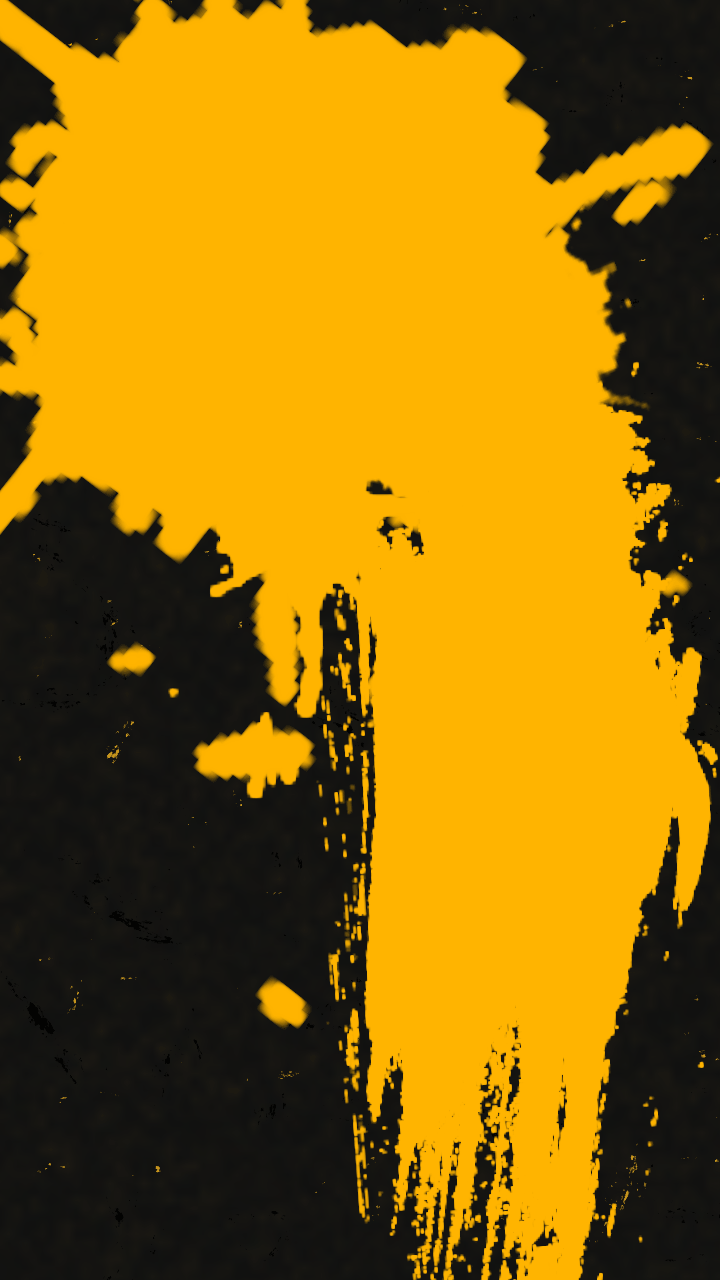
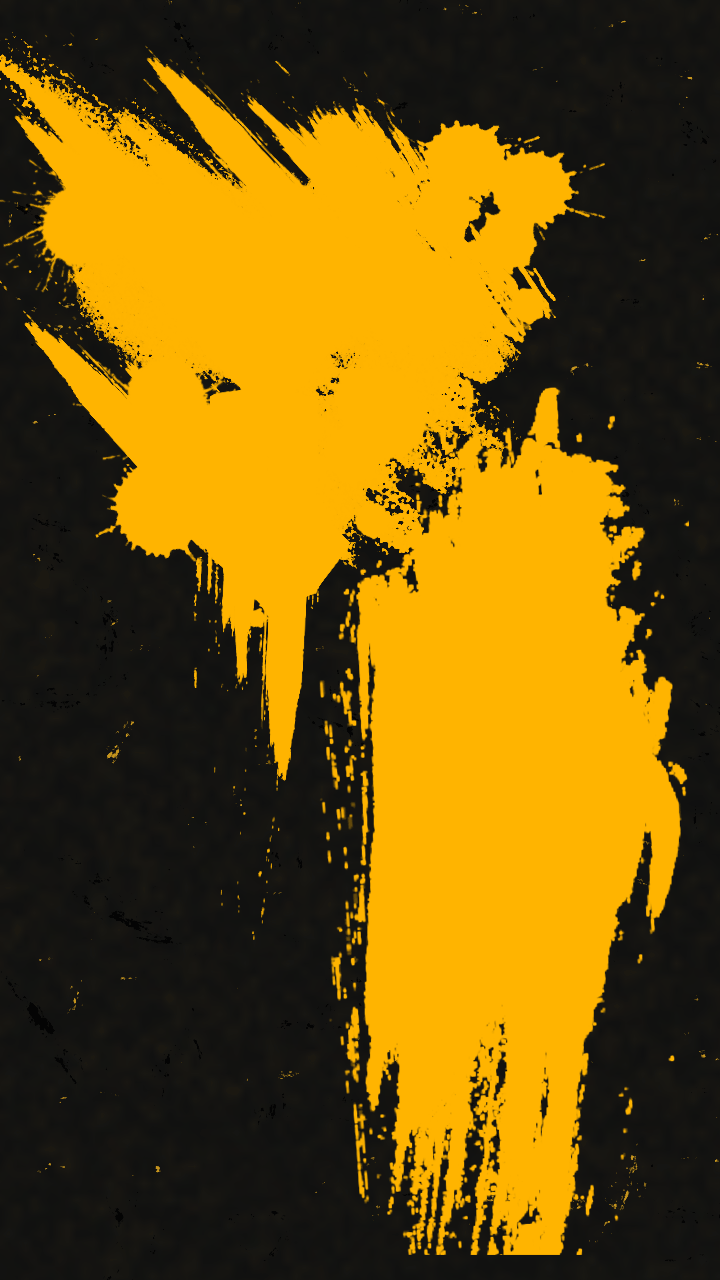
modify

diff --git a/templates/activity.html b/templates/activity.html
@@ -40,7 +40,34 @@
                 <img class="person2" src="static/img/section/section2/slide2/person2.png"  style="display: none"/>
                 <img class="name" src="static/img/section/section2/slide2/name.png" style="display: none" />
             </div>
-
+        </div>
+        <div class="slide" id="slide3">
+            <div class="box-wrapper">
+                <img class="person1" src="static/img/section/section2/slide3/person1.png"  style="display: none"/>
+                <img class="person2" src="static/img/section/section2/slide3/person2.png"  style="display: none"/>
+                <img class="name" src="static/img/section/section2/slide3/name.png" style="display: none" />
+            </div>
+        </div>
+        <div class="slide" id="slide4">
+            <div class="box-wrapper">
+                <img class="person1" src="static/img/section/section2/slide4/person1.png"  style="display: none"/>
+                <img class="person2" src="static/img/section/section2/slide4/person2.png"  style="display: none"/>
+                <img class="name" src="static/img/section/section2/slide4/name.png" style="display: none" />
+            </div>
+        </div>
+        <div class="slide" id="slide5">
+            <div class="box-wrapper">
+                <img class="person1" src="static/img/section/section2/slide5/person1.png"  style="display: none"/>
+                <img class="person2" src="static/img/section/section2/slide5/person2.png"  style="display: none"/>
+                <img class="name" src="static/img/section/section2/slide5/name.png" style="display: none" />
+            </div>
+        </div>
+        <div class="slide" id="slide6">
+            <div class="box-wrapper">
+                <img class="person1" src="static/img/section/section2/slide6/person1.png"  style="display: none"/>
+                <img class="person2" src="static/img/section/section2/slide6/person2.png"  style="display: none"/>
+                <img class="name" src="static/img/section/section2/slide6/name.png" style="display: none" />
+            </div>
         </div>
 
     </div>

diff --git a/static/js/section.js b/static/js/section.js
@@ -15,18 +15,30 @@ $(document).ready(function() {
 
             //first slide of the second section
             if (index == 2 && slideIndex == 1) {
-                console.log("asdasdasdasd")
                 $("#section2 #slide2 .person1").addClass("animated slideInDown").show()
                 $("#section2 #slide2 .person2").addClass("animated slideInUp").show()
                 $("#section2 #slide2 .name").addClass("animated slideInUp").show()
-
             }
-
-            //second slide of the second section (supposing #secondSlide is the
-            //anchor for the second slide
-            // if(index == 2 && slideIndex == 'secondSlide'){
-            //     alert("Second slide loaded");
-            // }
+            if (index == 2 && slideIndex == 2) {
+                $("#section2 #slide3 .person1").addClass("animated slideInDown").show()
+                $("#section2 #slide3 .person2").addClass("animated slideInUp").show()
+                $("#section2 #slide3 .name").addClass("animated slideInUp").show()
+            }
+            if (index == 2 && slideIndex == 3) {
+                $("#section2 #slide4 .person1").addClass("animated slideInDown").show()
+                $("#section2 #slide4 .person2").addClass("animated slideInUp").show()
+                $("#section2 #slide4 .name").addClass("animated slideInUp").show()
+            }
+            if (index == 2 && slideIndex == 4) {
+                $("#section2 #slide5 .person1").addClass("animated slideInDown").show()
+                $("#section2 #slide5 .person2").addClass("animated slideInUp").show()
+                $("#section2 #slide5 .name").addClass("animated slideInUp").show()
+            }
+            if (index == 2 && slideIndex == 5) {
+                $("#section2 #slide6 .person1").addClass("animated slideInDown").show()
+                $("#section2 #slide6 .person2").addClass("animated slideInUp").show()
+                $("#section2 #slide6 .name").addClass("animated slideInUp").show()
+            }
         }
     });
 

diff --git a/src/less/count.less b/src/less/count.less
@@ -71,10 +71,10 @@
     top: -57px;
   }
   .name {
-    width: 58%;
-    position: relative;
-    left: 46px;
-    top: -345px;
+    width: 53%;
+    position: absolute;
+    left: 44%;
+    top: 39%;
   }
 }
 #section2 #slide2 {
@@ -99,6 +99,102 @@
     position: absolute;
     left: 54%;
     top: 67%;
+  }
+}
+#section2 #slide3 {
+  .box-wrapper {
+    background: url(../img/section/section2/slide3/bg.png);
+    background-size: cover;
+}
+  .person1 {
+    position: absolute;
+    top: 10%;
+    width: 66%;
+    left: 9%;
+  }
+  .person2 {
+    width: 32%;
+    position: absolute;
+    left: 52%;
+    top: 44%;
+  }
+  .name {
+    width: 30%;
+    position: absolute;
+    left: 8%;
+    top: 66%;
+  }
+}
+#section2 #slide4 {
+  .box-wrapper {
+    background: url(../img/section/section2/slide4/bg.png);
+    background-size: cover;
+}
+  .person1 {
+    position: absolute;
+    top: 1%;
+    width: 43%;
+    left: -2%;
+  }
+  .person2 {
+    width: 83%;
+    position: absolute;
+    left: 34%;
+    top: 58%;
+  }
+  .name {
+    width: 24%;
+    position: absolute;
+    left: 73%;
+    top: 4%;
+  }
+}
+#section2 #slide5 {
+  .box-wrapper {
+    background: url(../img/section/section2/slide5/bg.png);
+    background-size: cover;
+}
+  .person1 {
+    position: absolute;
+    top: 9%;
+    width: 58%;
+    left: 37%;
+  }
+  .person2 {
+    width: 50%;
+    position: absolute;
+    left: 10%;
+    top: 54%;
+  }
+  .name {
+    width: 56%;
+    position: absolute;
+    left: 22%;
+    top: 35%;
+  }
+}
+#section2 #slide6 {
+  .box-wrapper {
+    background: url(../img/section/section2/slide6/bg.png);
+    background-size: cover;
+}
+  .person1 {
+    position: absolute;
+    top: 1%;
+    width: 82%;
+    left: 4%;
+  }
+  .person2 {
+    width: 46%;
+    position: absolute;
+    left: 26%;
+    top: 66%;
+  }
+  .name {
+    width: 71%;
+    position: absolute;
+    left: 17%;
+    top: 51%;
   }
 }
 
